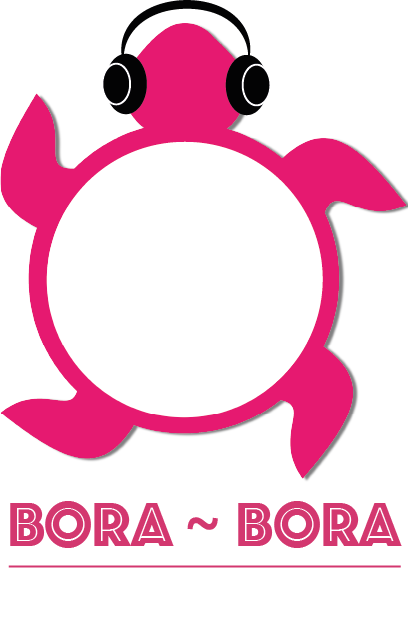
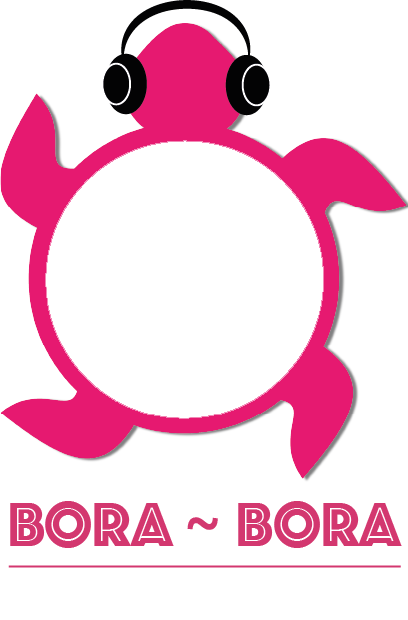
turtle correction

diff --git a/js/script.js b/js/script.js
@@ -33,6 +33,7 @@ function chgImg(number) {
 if (number!=0) n = number - 2;
  $('#logo').fadeOut(time, function() {
   $(this).attr('src', imgs[n]).fadeIn(time);
+  setTimeout(10)
  });
 
 

diff --git a/css/bora-bora.css b/css/bora-bora.css
@@ -108,7 +108,7 @@ h1, h2, h3, h4, h5, h6 {
   }
   .img-turtle {
     position: relative;
-    top: -79px;
+    top: -79.5px;
     justify-self: center;
     z-index: 2;
   }

diff --git a/sass/bora-bora.scss b/sass/bora-bora.scss
@@ -47,7 +47,7 @@
 
     .img-turtle {
         position: relative;
-        top: -79px;
+        top: -79.5px;
         justify-self: center;
         z-index: 2;
         
